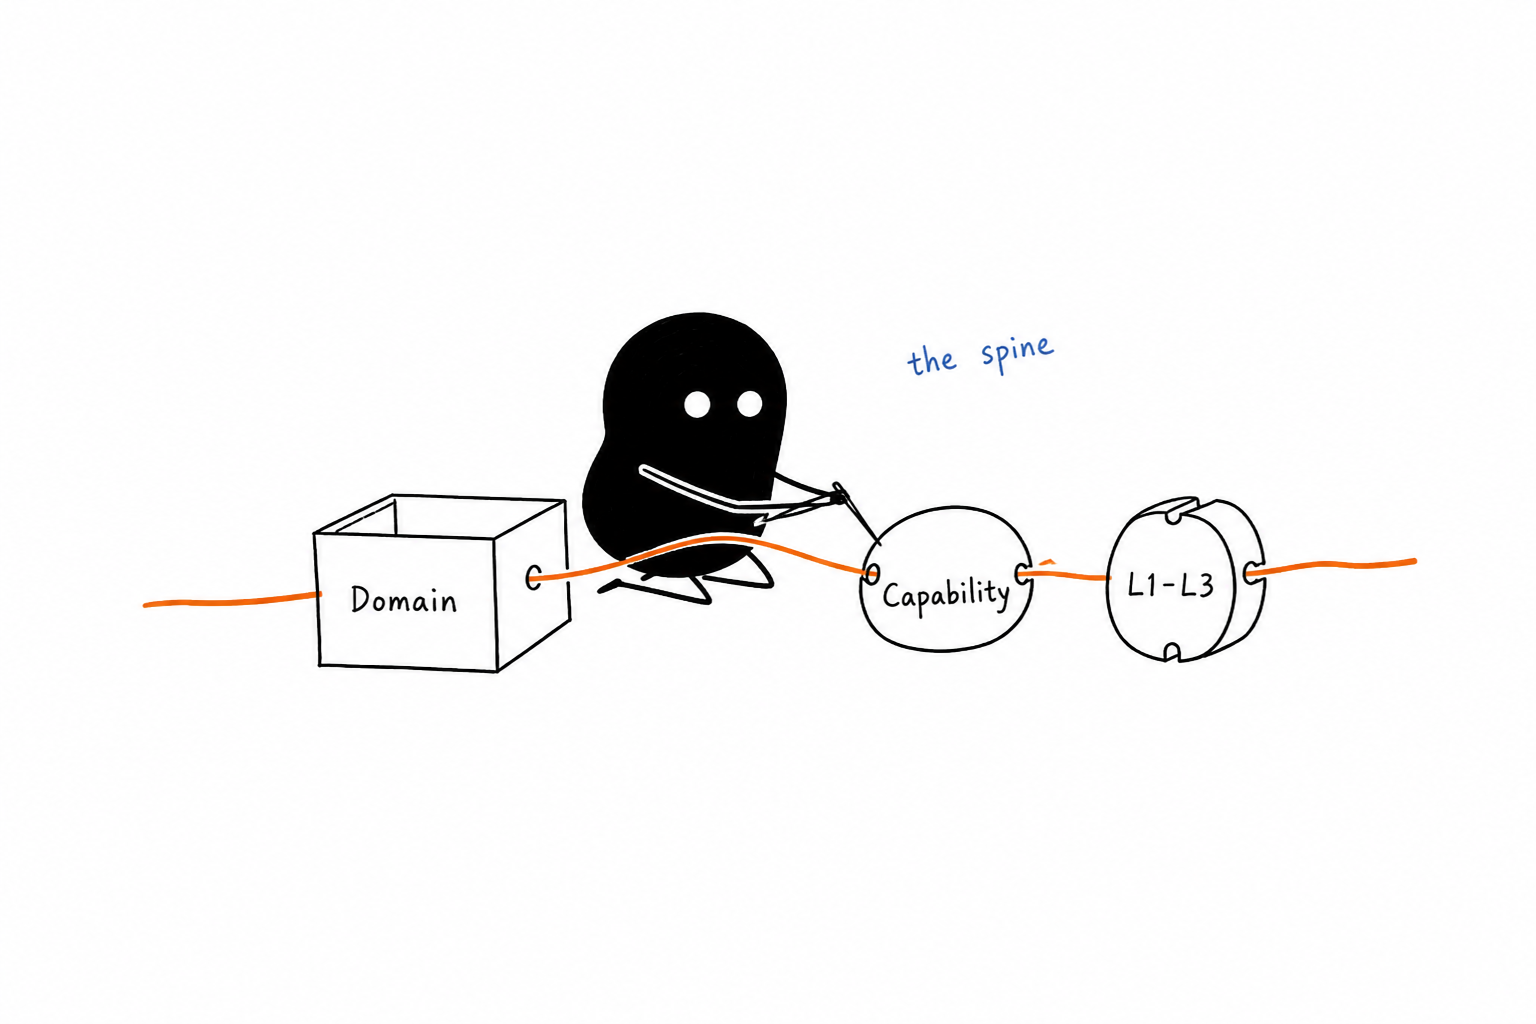
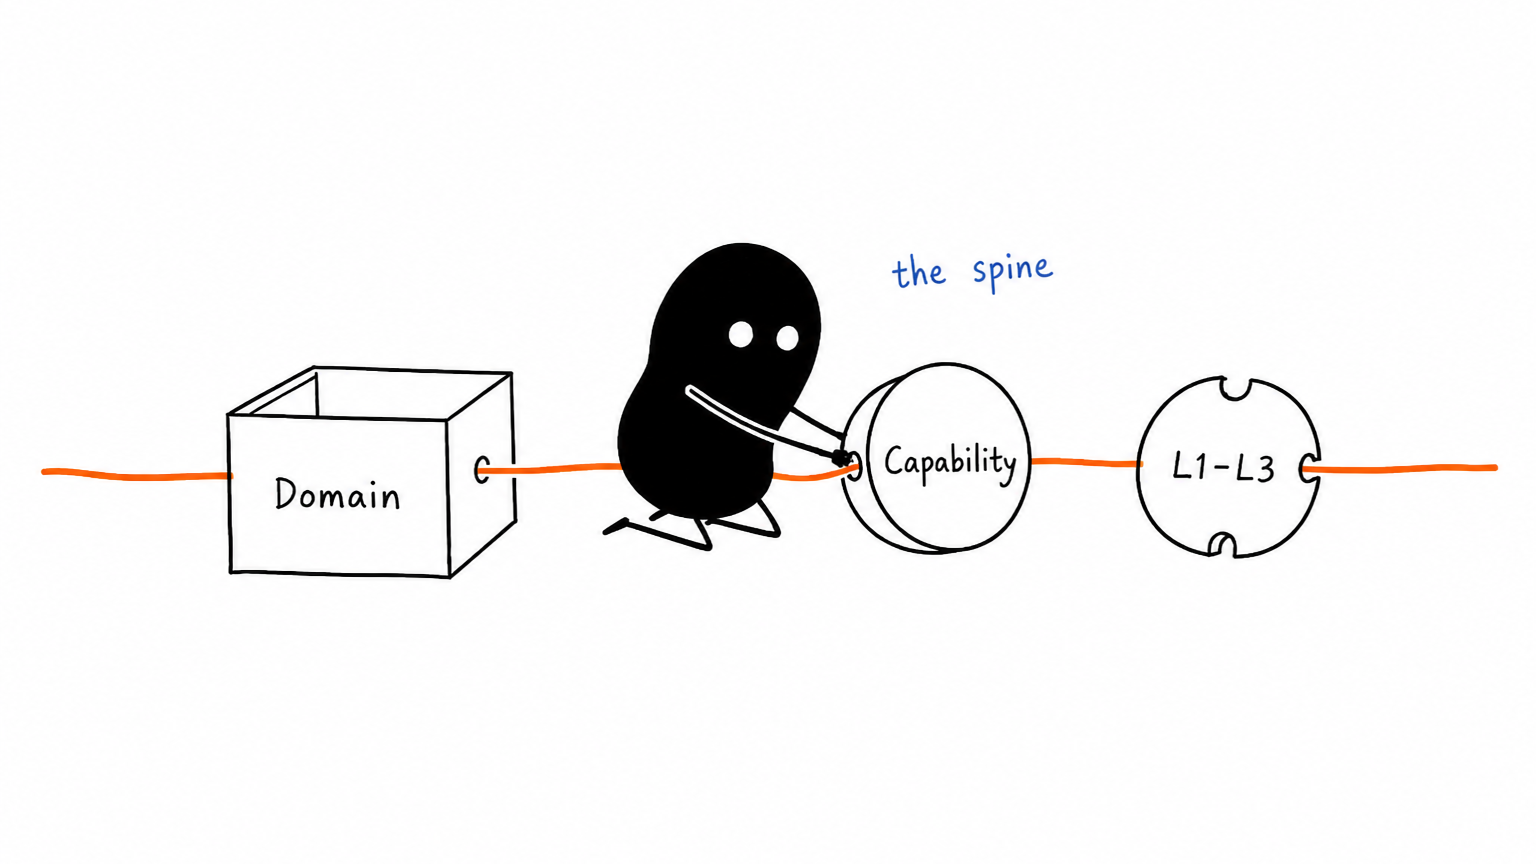
Make How it all relates a digestive landing page (#4)
* Publish How it all relates as the landing page, with the drawings.

Index is now the one-page map. Capability Model moves to
capability-model.html. Build copies the Xiaohei illustrations into
site/assets and frames them so the white art stays readable.

* Make How it all relates digestive: one sentence, one drawing, one jump.

Drop the essay, table, and ASCII from the landing page. Keep the five
beats. Reshoot the Xiaohei illustrations at 16:9 so they fill the column
and carry the argument. The markdown file stays the full text.

---------

Changed region(s): [[0.0312, 0.2812, 0.9688, 0.6875], [0.5625, 0.2812, 0.6875, 0.375], [0.5938, 0.4062, 0.6562, 0.4375]]

diff --git a/README.md b/README.md
@@ -11,7 +11,7 @@ Node 20 or newer.
 ```bash
 npm install
 npm run validate
-npm run build          # writes site/index.html
+npm run build          # writes site/ (landing is index.html, plus drawings)
 npm run dev            # build + preview at http://127.0.0.1:4173
 ```
 
@@ -37,6 +37,7 @@ You do not need to edit YAML.
 
 ## Layout
 
+- `how-it-all-relates.md` — landing-page argument (published as `index.html`)
 - `levels.yaml` — agency-wide L1 / L2 / L3 / Owner legend
 - `domains/*.yaml` — six closed domains
 - `capabilities/<domain-slug>/<kebab-id>.yaml` — capabilities nested by domain

diff --git a/how-it-all-relates.md b/how-it-all-relates.md
@@ -1,5 +1,7 @@
 # How it all relates — the one-page map
 
+The site's snapshot landing page. Published as `index.html` by `npm run build`. This file is the same argument, for editing.
+
 The convolution comes from treating six things as six lists. There's **one list**. Everything else points at it.
 
 ![One list](assets/how-it-all-relates-illustrations/01-one-list.png)
